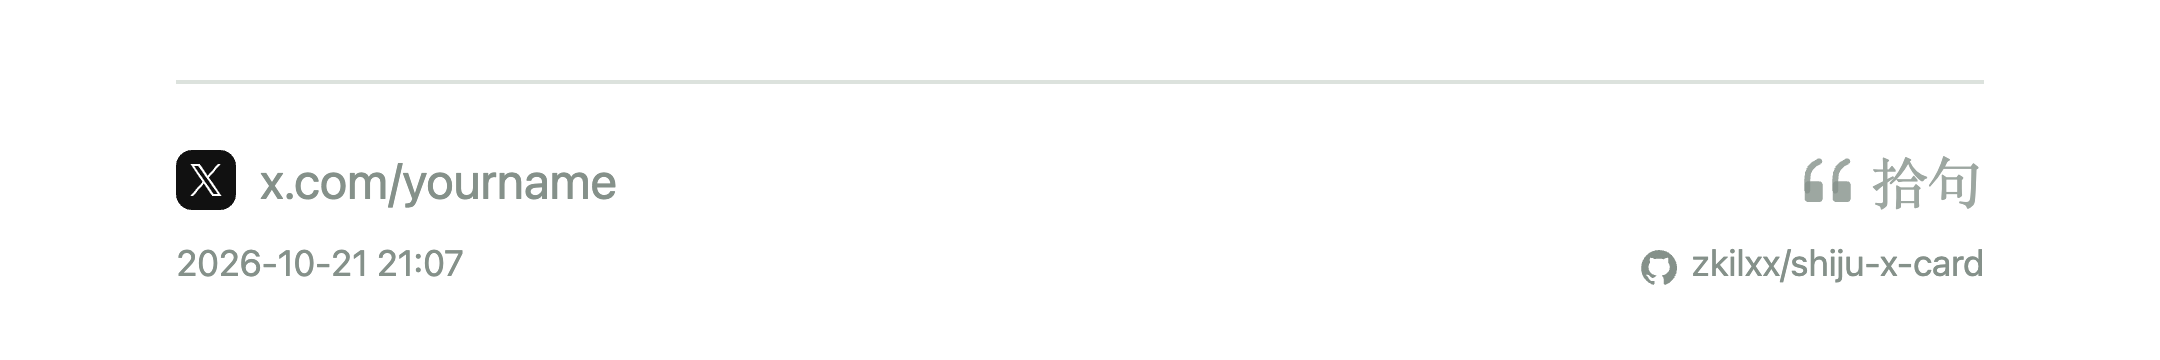
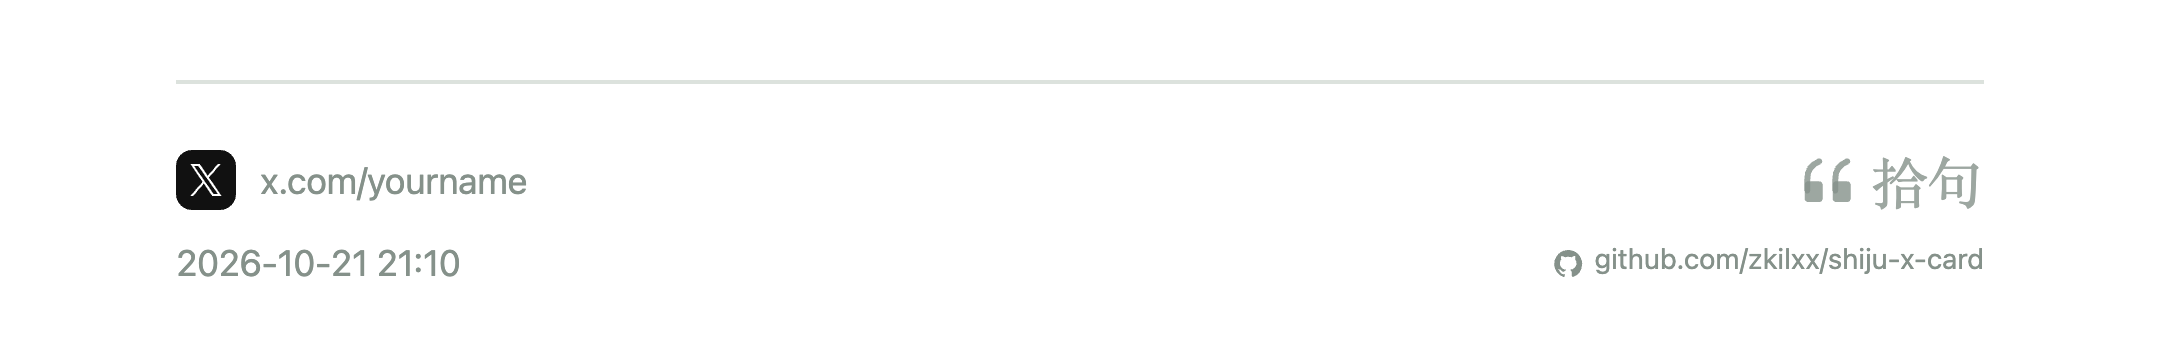
Reduce footer link sizes and restore the full repository address

Changed region(s): [[0.1241, 0.4583, 0.3102, 0.5806], [0.7134, 0.6722, 0.9306, 0.7944], [0.1861, 0.7028, 0.2171, 0.7639]]

diff --git a/extension/render.js b/extension/render.js
@@ -73,8 +73,8 @@ function drawXBadge(ctx,x,y) {
 }
 function drawRepository(ctx,right,y,color) {
   ctx.save();
-  ctx.font=`400 18px ${sans}`;ctx.fillStyle=color;
-  const iconSize=18,gap=7,textWidth=ctx.measureText(repositoryLabel).width;
+  ctx.font=`400 14px ${sans}`;ctx.fillStyle=color;
+  const iconSize=14,gap=6,textWidth=ctx.measureText(repositoryLabel).width;
   const left=right-textWidth-gap-iconSize;
   ctx.fillText(repositoryLabel,left+iconSize+gap,y);
   ctx.translate(left,y+2);ctx.scale(iconSize/16,iconSize/16);
@@ -148,7 +148,7 @@ export function renderCard(canvas, state, avatar = null, outputWidth = 1080) {
   }
   ctx.restore();
   ctx.font=`600 30px ${sans}`;ctx.fillStyle=template.fg;ctx.fillText(ellipsis(ctx,account.name,inner-116),padding+112,100);
-  ctx.font=`400 25px ${sans}`;ctx.fillStyle=template.muted;ctx.fillText(`@${account.handle}`,padding+112,145);
+  ctx.font=`400 18px ${sans}`;ctx.fillStyle=template.muted;ctx.fillText(`@${account.handle}`,padding+112,145);
   let cursor=contentTop;
   if(title) {ctx.font=`600 ${titleSize}px ${titleFamily}`;textLines(ctx,titleLines,padding,cursor,titleLeading,template.fg);cursor+=titleLines.length*titleLeading+(body?titleGap:0);}
   if(body) {
@@ -168,15 +168,15 @@ export function renderCard(canvas, state, avatar = null, outputWidth = 1080) {
   }
   const footerY=height-139;
   line(ctx,padding,footerY,inner,template.line);
-  ctx.font=`400 25px ${sans}`;ctx.fillStyle=template.muted;
+  ctx.font=`400 18px ${sans}`;ctx.fillStyle=template.muted;
   const footerURL=state.tweetSource?.url?.replace(/^https:\/\//,'') || `x.com/${account.handle}`;
   const brandWidth=drawBrandmark(ctx,1080-padding,footerY+35,template.muted);
   const linkX=padding+42,linkWidth=inner-brandWidth-36-42;
   drawXBadge(ctx,padding,footerY+34);
-  let linkSize=25;
-  while(ctx.measureText(footerURL).width>linkWidth && linkSize>19){linkSize--;ctx.font=`400 ${linkSize}px ${sans}`;}
+  let linkSize=18;
+  while(ctx.measureText(footerURL).width>linkWidth && linkSize>14){linkSize--;ctx.font=`400 ${linkSize}px ${sans}`;}
   // Keep the complete original URL while reserving clear space for the brandmark.
-  ctx.fillText(footerURL,linkX,footerY+38,linkWidth);
+  ctx.fillText(footerURL,linkX,footerY+41,linkWidth);
   const repositoryWidth=drawRepository(ctx,1080-padding,footerY+82,template.muted);
   if(stamp){ctx.font=`400 18px ${sans}`;ctx.fillStyle=template.muted;ctx.fillText(stamp,padding,footerY+82,inner-repositoryWidth-28);}
   return {width:canvas.width,height:canvas.height,fontSize,titleSize,template:template.name};

diff --git a/extension/branding.js b/extension/branding.js
@@ -1,6 +1,6 @@
 // GitHub mark: Primer Octicons (MIT); see THIRD_PARTY_NOTICES.txt.
 export const repositoryURL='https://github.com/zkilxx/shiju-x-card';
-export const repositoryLabel='zkilxx/shiju-x-card';
+export const repositoryLabel='github.com/zkilxx/shiju-x-card';
 export const githubPath="M6.766 11.328c-2.063-.25-3.516-1.734-3.516-3.656 0-.781.281-1.625.75-2.188-.203-.515-.172-1.609.063-2.062.625-.078 1.468.25 1.968.703.594-.187 1.219-.281 1.985-.281.765 0 1.39.094 1.953.265.484-.437 1.344-.765 1.969-.687.218.422.25 1.515.046 2.047.5.593.766 1.39.766 2.203 0 1.922-1.453 3.375-3.547 3.64.531.344.89 1.094.89 1.954v1.625c0 .468.391.734.86.547C13.781 14.359 16 11.53 16 8.03 16 3.61 12.406 0 7.984 0 3.563 0 0 3.61 0 8.031a7.88 7.88 0 0 0 5.172 7.422c.422.156.828-.125.828-.547v-1.25c-.219.094-.5.156-.75.156-1.031 0-1.64-.562-2.078-1.609-.172-.422-.36-.672-.719-.719-.187-.015-.25-.093-.25-.187 0-.188.313-.328.625-.328.453 0 .844.281 1.25.86.313.452.64.655 1.031.655s.641-.14 1-.5c.266-.265.47-.5.657-.656";
 // X mark: Simple Icons (CC0), see THIRD_PARTY_NOTICES.txt.
 export const xPath="M14.234 10.162 22.977 0h-2.072l-7.591 8.824L7.251 0H.258l9.168 13.343L.258 24H2.33l8.016-9.318L16.749 24h6.993zm-2.837 3.299-.929-1.329L3.076 1.56h3.182l5.965 8.532.929 1.329 7.754 11.09h-3.182z";

diff --git a/README.md b/README.md
@@ -5,7 +5,7 @@
   <h1>拾句 · X 文字卡片</h1>
   <p>在 Chrome 侧边栏，把想法和喜欢的推文做成一张好看的卡片。</p>
   <p>
-    <img src="https://img.shields.io/badge/version-1.5.3-173e34" alt="Version 1.5.3">
+    <img src="https://img.shields.io/badge/version-1.5.4-173e34" alt="Version 1.5.4">
     <img src="https://img.shields.io/badge/Chrome-116%2B-4285F4?logo=googlechrome&logoColor=white" alt="Chrome 116+">
     <img src="https://img.shields.io/badge/Manifest-V3-6d7772" alt="Manifest V3">
     <img src="https://img.shields.io/badge/PNG-3240px-173e34" alt="PNG export up to 3240px">
@@ -24,7 +24,7 @@
 | 功能 | 说明 |
 | --- | --- |
 | 中英双语 | 顶部可切换简体中文 / English，语言偏好单独保存，原文和账号资料保持不变，品牌名始终显示「拾句」 |
-| 卡片时间 | 链接前有圆角方形 𝕏 标记，下方显示时间戳；自己的文字使用本次导出时间，推文使用原文发布时间，按本地时间显示，不附带时区文字 |
+| 卡片时间 | 较小字号显示完整原始链接，前有圆角方形 𝕏 标记，下方显示时间戳；自己的文字使用本次导出时间，推文使用原文发布时间，按本地时间显示，不附带时区文字 |
 | GitHub 入口 | 左上角展示插件 Logo，右上角 GitHub 按钮直达仓库；卡片右下角 Logo 下附 GitHub 图标与仓库地址 |
 | 六套模板 | 素白、墨夜、松绿、赤陶、手札、雾蓝；手札横线跟随正文，不穿过标题 |
 | 演示资料 | 未关联账号时使用拾句 Logo 占位；同步或上传头像后显示真实头像 |
@@ -50,7 +50,7 @@
 
 目前通过 Chrome 的「加载已解压的扩展程序」安装，尚未上架 Chrome 应用商店。
 
-1. 前往 [Releases](https://github.com/zkilxx/shiju-x-card/releases/latest)，下载 `shiju-x-card-1.5.3.zip` 并解压。
+1. 前往 [Releases](https://github.com/zkilxx/shiju-x-card/releases/latest)，下载 `shiju-x-card-1.5.4.zip` 并解压。
 2. 在 Chrome 地址栏输入 `chrome://extensions`，打开右上角的「开发者模式」。
 3. 点击「加载已解压的扩展程序」，选择解压后的 **extension** 文件夹，里面应有 `manifest.json`。
 4. 在 Chrome 工具栏的扩展菜单中固定「拾句」，点击图标打开侧边栏。
@@ -118,7 +118,7 @@ cd shiju-x-card
 
 未打开 X、尚未登录或页面资料未就绪时，会提示同步失败，并明确标记缓存账号「未确认当前账号」。请确认身份后再导出，也可以手动编辑资料。
 
-仓库入口为 [github.com/zkilxx/shiju-x-card](https://github.com/zkilxx/shiju-x-card)。卡片底部以 GitHub 图标加 `zkilxx/shiju-x-card` 简写显示仓库路径，是图片文字；侧边栏右上角的 GitHub 按钮可点击跳转。切换语言仅改变操作界面与提示，不翻译你的标题、正文或账号资料。
+仓库入口为 [github.com/zkilxx/shiju-x-card](https://github.com/zkilxx/shiju-x-card)。卡片底部以较小字号显示 GitHub 图标和完整仓库地址 `github.com/zkilxx/shiju-x-card`，是图片文字；侧边栏右上角的 GitHub 按钮可点击跳转。切换语言仅改变操作界面与提示，不翻译你的标题、正文或账号资料。
 
 ## 使用限制
 

diff --git a/README.en.md b/README.en.md
@@ -5,7 +5,7 @@
   <h1>Shiju · X Text Cards</h1>
   <p>Turn your thoughts and favorite X posts into beautiful cards, right in Chrome's side panel.</p>
   <p>
-    <img src="https://img.shields.io/badge/version-1.5.3-173e34" alt="Version 1.5.3">
+    <img src="https://img.shields.io/badge/version-1.5.4-173e34" alt="Version 1.5.4">
     <img src="https://img.shields.io/badge/Chrome-116%2B-4285F4?logo=googlechrome&logoColor=white" alt="Chrome 116+">
     <img src="https://img.shields.io/badge/Manifest-V3-6d7772" alt="Manifest V3">
     <img src="https://img.shields.io/badge/PNG-3240px-173e34" alt="PNG exports up to 3240px">
@@ -32,8 +32,8 @@ No API key and no build step. Sync the X account signed in to your browser, writ
 | Flexible sizes | Auto height, square 1:1 or portrait 4:5 |
 | Light and dark UI | Follow the system or choose manually; UI appearance does not change card colors |
 | Local drafts | Save text, styling and profile details on this device; restore your own draft after exporting someone else's post |
-| Card timestamps | A rounded-square X badge precedes the link; the timestamp below uses the current export time for your writing or the original publication time for imported posts |
-| GitHub links | Open the repository from the header button; every card includes a GitHub icon and the compact `zkilxx/shiju-x-card` repository label below the Shiju brandmark |
+| Card timestamps | A rounded-square X badge precedes the full original link in smaller type; the timestamp below uses the current export time for your writing or the original publication time for imported posts |
+| GitHub links | Open the repository from the header button; every card includes a GitHub icon and the full `github.com/zkilxx/shiju-x-card` repository address in smaller type below the Shiju brandmark |
 
 ## Interface
 
@@ -45,7 +45,7 @@ Select **English** in the language menu at the top. Language changes affect cont
 
 Requires desktop Chrome 116 or later. The extension is currently installed as an unpacked extension; it is not listed in the Chrome Web Store.
 
-1. Download `shiju-x-card-1.5.3.zip` from [Releases](https://github.com/zkilxx/shiju-x-card/releases/latest) and extract it.
+1. Download `shiju-x-card-1.5.4.zip` from [Releases](https://github.com/zkilxx/shiju-x-card/releases/latest) and extract it.
 2. Open `chrome://extensions` and enable **Developer mode** in the top-right corner.
 3. Click **Load unpacked** and select the extracted **extension** folder, which contains `manifest.json`.
 4. Pin Shiju from Chrome's extensions menu, then click its icon to open the side panel.
